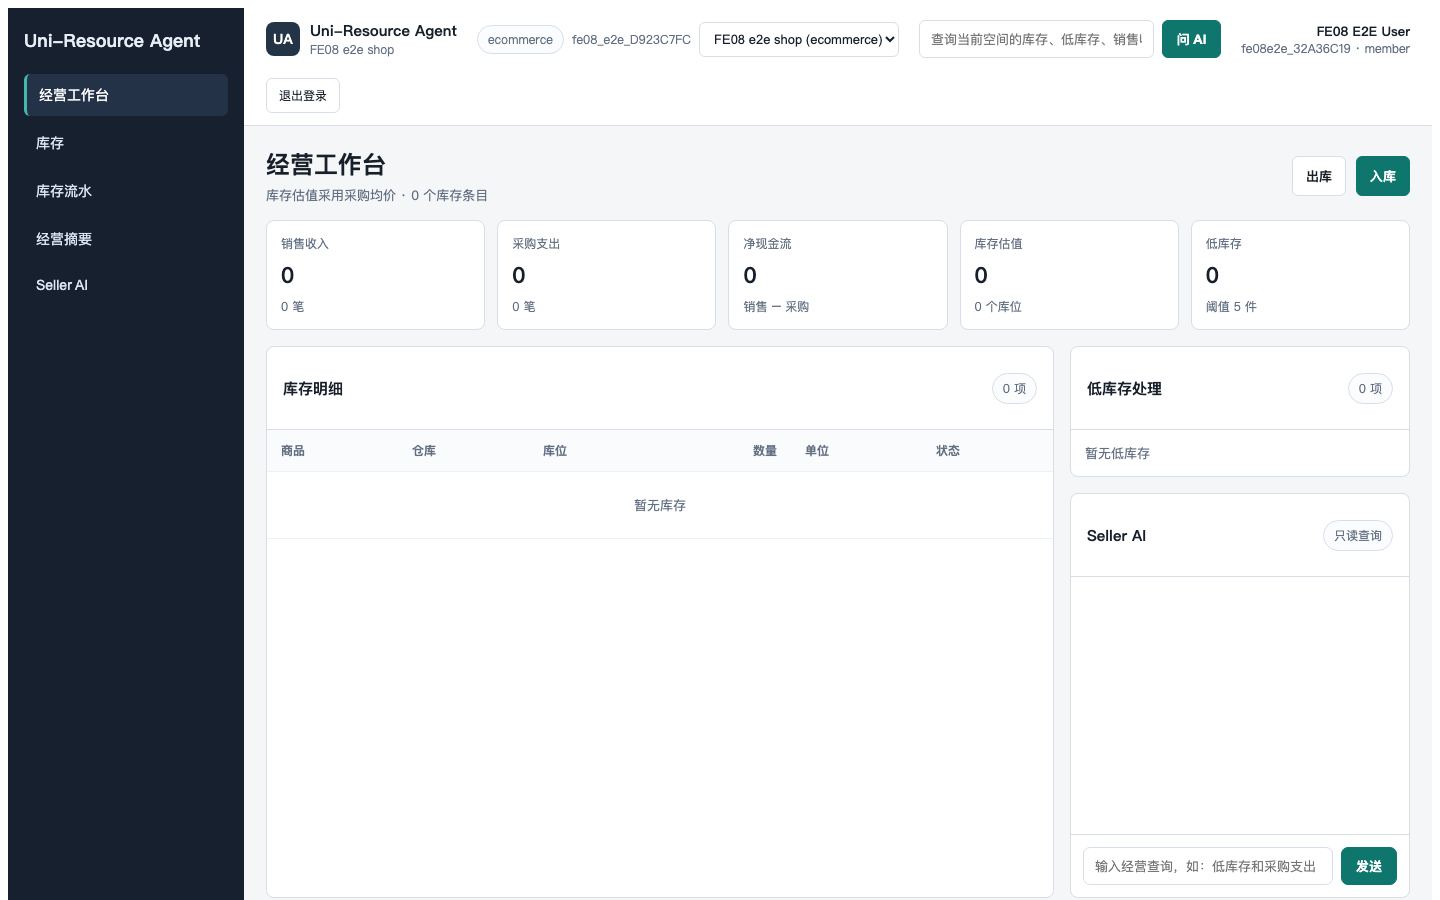
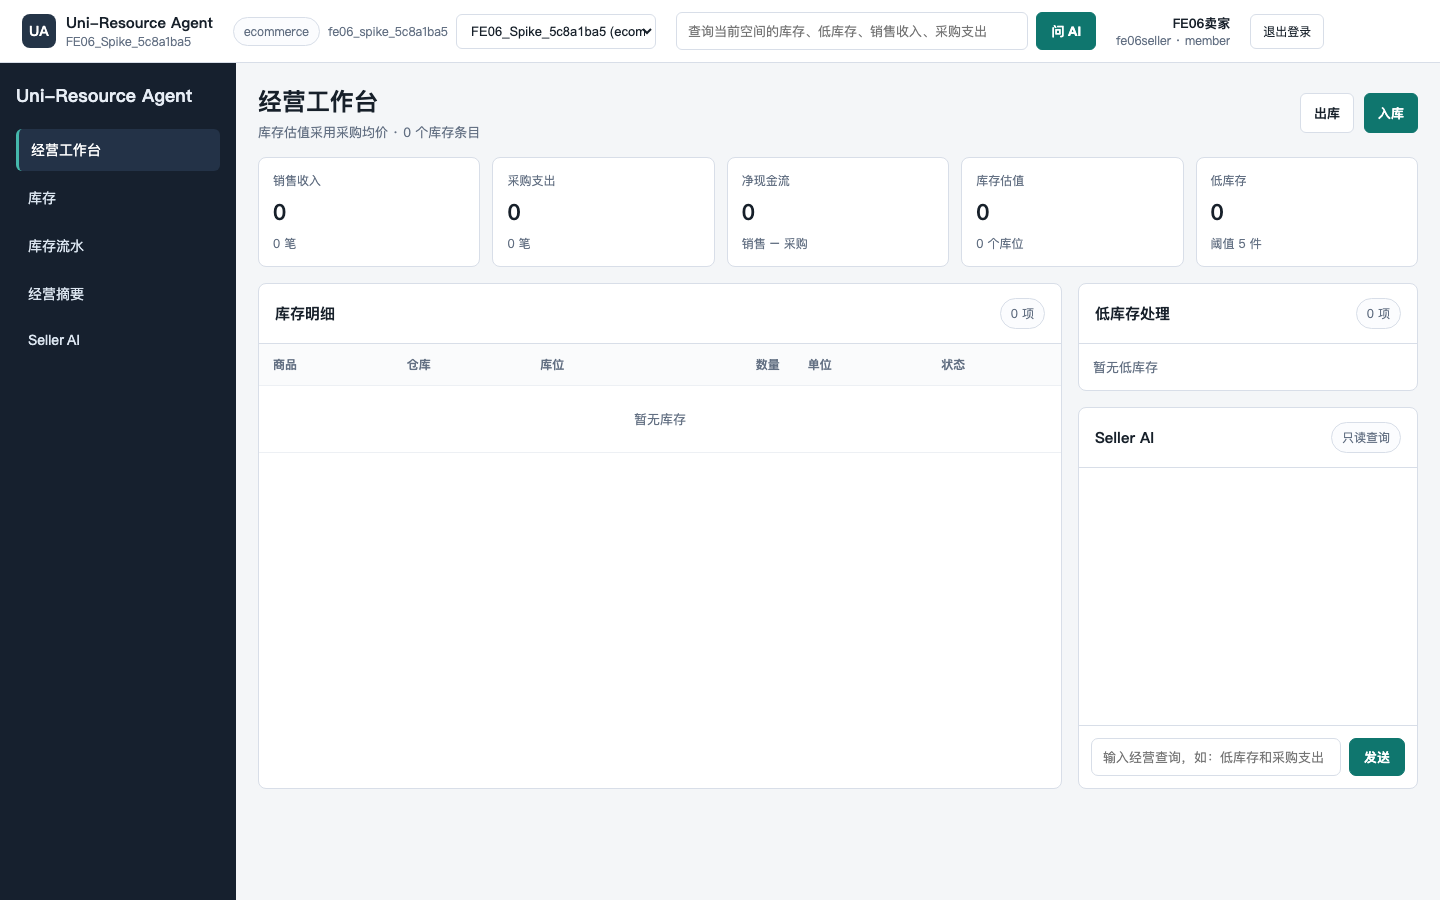
style(web): App 改上下结构 - Header 通栏 sticky 置顶 + 全局 margin reset
- App.vue: Header 提出为顶层通栏, 下部 .body-grid (Sidebar + main) 两列
- AppHeader: position sticky + z-index 30, 滚动时组织切换/AI 始终可见
- main.ts/style.css: body margin:0 + border-box reset, Header 贯通最左最右
- ≤980px 断点: body-grid 单列, Header 仍通栏置顶
- 新增结构测试 (header 为 shell 首子元素, body-grid 含 side+main), 92 passed
- 重拍 5 张验收截图, 1440 满宽 / 1280 / 800 无溢出

diff --git a/web/src/App.vue b/web/src/App.vue
@@ -150,36 +150,38 @@ onMounted(() => {
 
 <template>
   <div v-if="authenticated" class="shell authed">
-    <SidebarNav :current-view="currentView" @navigate="currentView = $event" />
-    <div class="main-col">
-      <AppHeader
-        :person-name="ctx.personName"
-        :puid="ctx.puid"
-        :organization-name="ctx.organizationName"
-        :ouid="ctx.ouid"
-        :org-type="ctx.orgType"
-        :role="ctx.role"
-        :organizations="organizations"
-        @switch-organization="onSwitchOrganization"
-        @logout="onLoggedOut"
-        @ask="onHeaderAsk"
-      />
-      <main class="main">
-        <div v-if="isEcommerce" class="views">
-          <component
-            :is="currentComponent"
-            :header-exchange="currentView === 'chat' ? headerExchange : null"
-            @logged-out="onLoggedOut"
-          />
-        </div>
-        <div v-else class="empty" data-test="non-ecommerce-empty">
-          <p class="empty-title">该业务形态暂未接入经营工作台</p>
-          <p class="empty-sub">
-            当前空间为 {{ ctx.orgType }} · {{ ctx.organizationName }}，Seller
-            经营工作台仅面向 ecommerce 空间。
-          </p>
-        </div>
-      </main>
+    <AppHeader
+      :person-name="ctx.personName"
+      :puid="ctx.puid"
+      :organization-name="ctx.organizationName"
+      :ouid="ctx.ouid"
+      :org-type="ctx.orgType"
+      :role="ctx.role"
+      :organizations="organizations"
+      @switch-organization="onSwitchOrganization"
+      @logout="onLoggedOut"
+      @ask="onHeaderAsk"
+    />
+    <div class="body-grid">
+      <SidebarNav :current-view="currentView" @navigate="currentView = $event" />
+      <div class="main-col">
+        <main class="main">
+          <div v-if="isEcommerce" class="views">
+            <component
+              :is="currentComponent"
+              :header-exchange="currentView === 'chat' ? headerExchange : null"
+              @logged-out="onLoggedOut"
+            />
+          </div>
+          <div v-else class="empty" data-test="non-ecommerce-empty">
+            <p class="empty-title">该业务形态暂未接入经营工作台</p>
+            <p class="empty-sub">
+              当前空间为 {{ ctx.orgType }} · {{ ctx.organizationName }}，Seller
+              经营工作台仅面向 ecommerce 空间。
+            </p>
+          </div>
+        </main>
+      </div>
     </div>
   </div>
   <div v-else class="auth-area" data-test="auth-area">
@@ -203,10 +205,13 @@ onMounted(() => {
   background: var(--bg, #f4f6f8);
   color: var(--ink, #17202a);
   font-family: Inter, 'PingFang SC', 'Microsoft YaHei', Arial, sans-serif;
-  display: grid;
-  grid-template-columns: 1fr;
+  display: flex;
+  flex-direction: column;
 }
-.shell.authed {
+.body-grid {
+  flex: 1;
+  min-height: 0;
+  display: grid;
   grid-template-columns: 236px 1fr;
 }
 .main-col {
@@ -239,7 +244,7 @@ onMounted(() => {
   font-size: 13px;
 }
 @media (max-width: 980px) {
-  .shell.authed {
+  .body-grid {
     grid-template-columns: 1fr;
   }
 }

diff --git a/web/src/App.test.ts b/web/src/App.test.ts
@@ -114,6 +114,25 @@ describe('App shell', () => {
     expect(wrapper.find('[data-test="auth-area"]').exists()).toBe(false)
   })
 
+  it('places the header full-width on top, above the sidebar+main body grid', async () => {
+    const wrapper = mount(App)
+    await wrapper.find('input[data-test="login"]').setValue('shopkeeper@shop_demo')
+    await wrapper.find('input[data-test="password"]').setValue('pass123')
+    await wrapper.find('form').trigger('submit')
+    await flushPromises()
+
+    const shell = wrapper.find('.shell.authed')
+    const header = shell.find('[data-test="app-header"]')
+    expect(header.exists()).toBe(true)
+    expect(shell.element.firstElementChild).toBe(header.element)
+
+    const body = shell.find('.body-grid')
+    expect(body.exists()).toBe(true)
+    expect(body.find('.side').exists()).toBe(true)
+    expect(body.find('.main').exists()).toBe(true)
+    expect(body.element.previousElementSibling).toBe(header.element)
+  })
+
   it('returns to the login view when the session is unauthenticated (401 path)', async () => {
     const wrapper = mount(App)
     await wrapper.find('input[data-test="login"]').setValue('shopkeeper@shop_demo')

diff --git a/web/src/components/AppHeader.vue b/web/src/components/AppHeader.vue
@@ -107,6 +107,9 @@ function onAsk(event: Event) {
 
 <style scoped>
 .app-header {
+  position: sticky;
+  top: 0;
+  z-index: 30;
   background: var(--panel, #ffffff);
   border-bottom: 1px solid var(--line, #d8dee8);
   padding: 12px 22px;

diff --git a/web/src/style.css b/web/src/style.css
@@ -1,0 +1,19 @@
+html,
+body {
+  margin: 0;
+  padding: 0;
+}
+
+*,
+*::before,
+*::after {
+  box-sizing: border-box;
+}
+
+body {
+  background: var(--bg, #f4f6f8);
+}
+
+#app {
+  min-height: 100vh;
+}

diff --git a/web/src/main.ts b/web/src/main.ts
@@ -1,4 +1,5 @@
 import { createApp } from 'vue'
 import App from './App.vue'
+import './style.css'
 
 createApp(App).mount('#app')
